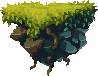
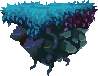
isplaying on point (almost)

diff --git a/src/main/resources/design/css/styleSheet.css b/src/main/resources/design/css/styleSheet.css
@@ -168,6 +168,10 @@
     -fx-pref-height: 300;
 }
 
+.isPlaying-label {
+    -fx-text-fill: #2ff1b0;
+}
+
 
 /* ************************************************ */
 /* COLONNE DROITE */

diff --git a/src/main/java/gui/gameWindows/InGameWindow.java b/src/main/java/gui/gameWindows/InGameWindow.java
@@ -93,6 +93,14 @@ public class InGameWindow extends GameWindow {
   private VBox getPlayerInformations(String labelTitle) {
     VBox informationPannelUser = new VBox();
 
+    Label isPlaying = new Label("- Playing now -");
+    isPlaying.getStyleClass().add("isPlaying-label");
+    informationPannelUser.getChildren().add(isPlaying);
+    if(!(clientSharedState.isMyTurn()))
+    {
+      isPlaying.setText("");
+    }
+
     // on set l'image de player 1
     if (labelTitle.equals(player1.getName())) {
       ImageView imageView = new ImageView(player1.getImage());
@@ -117,8 +125,8 @@ public class InGameWindow extends GameWindow {
     // On créé le titre "Actions"
     Label informationPanelUserTitle = new Label(labelTitle);
     informationPanelUserTitle.getStyleClass().add("titre-label");
-
-    informationPannelUser.getChildren().addAll(informationPanelUserTitle);
+    informationPannelUser.getChildren().add(informationPanelUserTitle);
+    
     return informationPannelUser;
   }
   /**

diff --git a/src/main/java/gui/GameBoard.java b/src/main/java/gui/GameBoard.java
@@ -28,6 +28,7 @@ import network.ClientRunner;
 import network.Messages;
 import network.ServerAdapter;
 import network.jsonUtils.GUIParser;
+import network.states.ClientSharedState;
 import network.utilities.JsonClient;
 import org.json.JSONException;
 import org.json.JSONObject;
